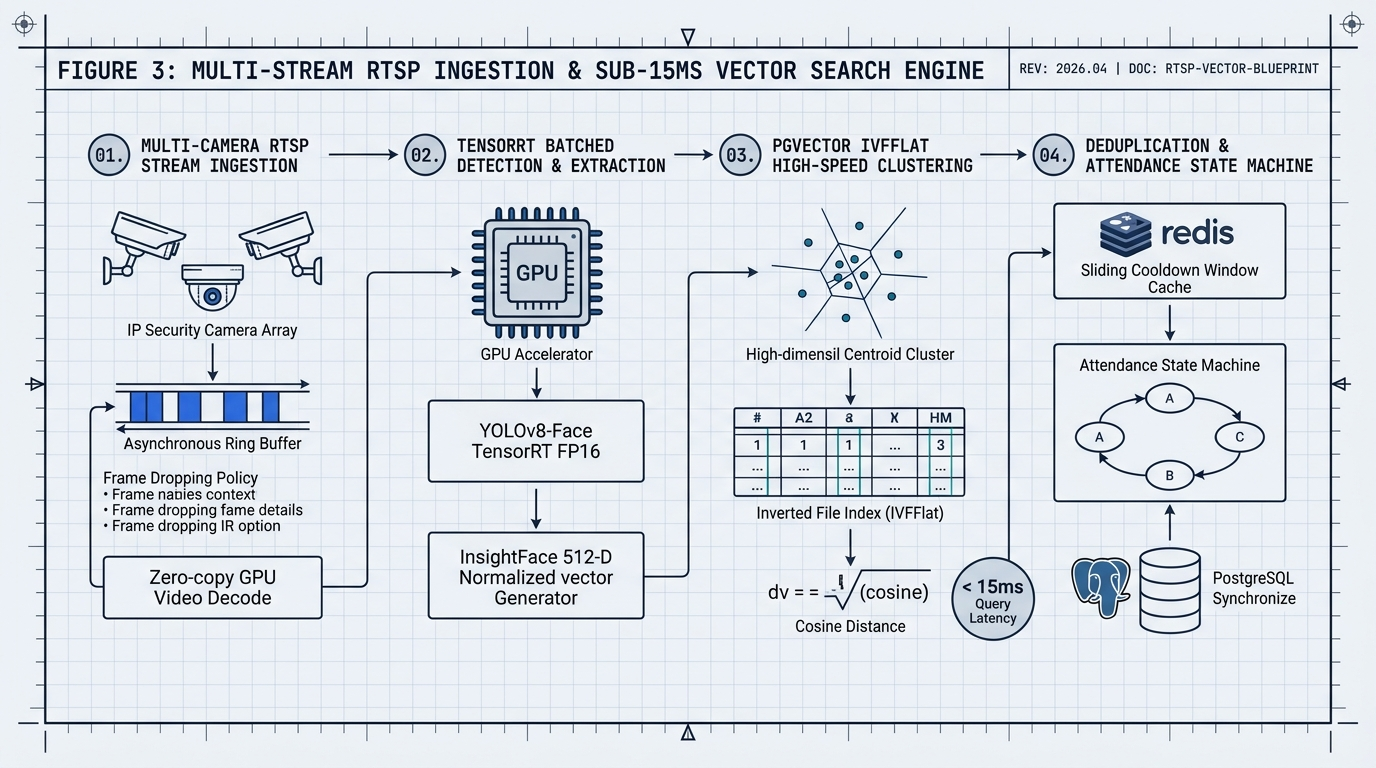
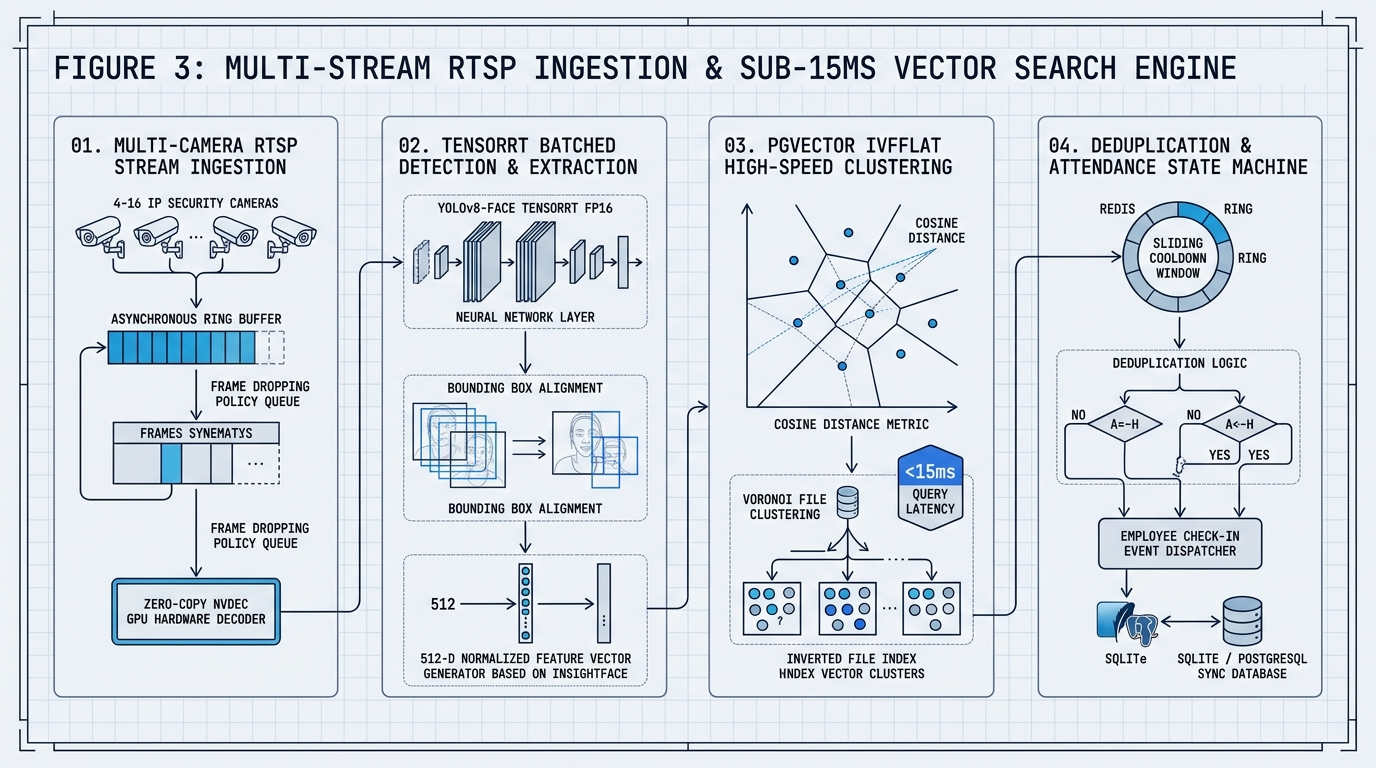
docs: streamline portfolio content and remove metadata stamps from blueprint diagrams

Changed region(s): [[0.0, 0.0, 1.0, 1.0], [0.4688, 0.375, 0.5, 0.4062]]

diff --git a/README.md b/README.md
@@ -11,11 +11,7 @@
 
 ## Executive Summary
 
-Welcome to my **Video Analytics & Computer Vision Architecture Portfolio**. 
-
-With an interdisciplinary background combining an **M.Sc. in Applied Mathematics and Computational Science (North South University)** and a **B.S.S. in Economics & Finance (BRAC University)**, I approach AI engineering through a dual lens: **rigorous computational execution** (low-latency inference, model quantization, scalable vector databases) paired with an **analytical, business-driven mindset** (minimizing server costs, eliminating workforce fraud, and optimizing hardware CapEx).
-
-This repository details the architectural designs, physical failure analyses, and empirical benchmarks of four production-grade computer vision systems:
+Production system architectures, failure analyses, and empirical benchmarks for four high-throughput computer vision systems—bridging low-latency edge inference with measurable financial ROI:
 
 <p align="center">
   <img src="diagrams/unified_system_topology.png" alt="Distributed Multi-Camera Computer Vision & Real-Time Vector Topology Blueprint" width="100%">
@@ -92,28 +88,19 @@ flowchart TD
 
 ## Key Technical Highlights
 
-### 1. Hardening Biometric Security (FinTech e-KYC)
-* **Information Density ($BPP$) Filter:** Attackers download compressed target photos from Facebook or WhatsApp and hold them to the camera. By requiring a minimum of $1.0\text{ Bits Per Pixel}$, the API instantly rejects compressed social media replays at the network perimeter.
-* **Apple Deep Fusion vs. RAW Bayer Analysis:** Discovered that smartphone in-camera noise reduction (like Apple's Deep Fusion) blurs away screen moiré lines in JPEGs, inadvertently helping screen spoofing attacks. Built raw `.DNG` sensor pipelines to detect authentic high-frequency screen interference.
-* **Quality-Adaptive Loss (AdaFace):** Adaptively relaxes confidence margins on faded or laminated government National ID scans, preventing false rejections of legitimate customers.
-
-### 2. Scalable High-Dimensional Vector Search
-* **PostgreSQL + `pgvector`:** Indexed 20,000+ employee embeddings into 100 Voronoi clusters using IVFFlat, reducing nearest-neighbor query times from hundreds of milliseconds down to **under 5 milliseconds**.
-* **Thread-per-Camera Decoupling:** Decoupled continuous 25 fps RTSP video socket capture from neural network inference using atomic circular queues (`maxlen=1`), eliminating the growing video lag common in standard loops.
-
-### 3. The Sub-Decimal Tracker Calibration Breakthrough
-* **100% Accuracy on an 11x Smaller Footprint:** Rather than running the resource-heavy YOLOX-X model (395 MB), systematically calibrated the lightweight YOLOX-Small model (35 MB) using sub-decimal threshold tuning (`0.4964` matching threshold, `21` frame buffer). Achieved **exact 0.00% error rate parity (392/392 unique people)** while increasing pipeline speed by **1.87x**.
+* **Presentation Attack Defense (BPP & RAW Analysis):** An Information Density filter ($BPP \ge 1.0$) rejects compressed social media replays at the network perimeter. Raw sensor `.DNG` decoding bypasses in-camera noise smoothing (e.g. Apple Deep Fusion) to catch microscopic screen moiré artifacts.
+* **Sub-5ms Vector Search (pgvector IVFFlat):** Clustered 20,000+ staff embeddings into 100 Voronoi cells, reducing vector query latency from hundreds of milliseconds to **under 5ms**.
+* **Zero Video Lag (Thread-per-Camera Architecture):** Atomic circular queues (`maxlen=1`) decouple 25 FPS RTSP socket capture from GPU inference, completely eliminating frame buffer buildup.
+* **100% Tracking Parity on 11x Smaller Footprint:** Calibrated YOLOX-Small (35MB) against heavy YOLOX-X (395MB) via sub-decimal threshold tuning ($t_{\text{match}} = 0.4964$, 21-frame buffer), achieving **0.00% error rate (392/392 headcount)** with a **1.87x speedup**.
 
 ---
 
-## Business Value & ROI Summary
+## Business Impact & ROI
 
-Combining an Applied Mathematics & Computational Science background with Economics & Finance, I prioritize engineering choices that directly translate to bottom-line business value:
-
-* 💰 **SaaS Displacement:** The self-hosted e-KYC pipeline replaces commercial identity vendors (\$0.50–\$1.50 per check), saving over **\$80,000 annually** for an active digital platform.
-* 🛡 **Eliminating Payroll Time-Theft:** Automated biometric attendance removes "buddy punching", which costs enterprises **2% to 5% of gross payroll** annually.
-* ⚡ **Hardware CapEx Optimization:** Calibrating lightweight models (35MB vs 395MB) allows the tracking pipeline to run on **\$450 mini-PCs** rather than **\$3,000 GPU workstations** (85% hardware cost savings per deployed site).
-* 🌐 **90%+ Bandwidth & Cloud Savings:** Processing video locally on edge devices avoids recurring cloud streaming and cloud GPU fees (saving **\$30,000+ per year** across a 20-camera facility).
+* 💰 **SaaS Displacement:** In-house e-KYC replaces \$0.50–\$1.50/check third-party vendors, saving **>\$80,000/year** at scale.
+* 🛡 **Time-Theft Elimination:** Automated biometric attendance removes buddy-punching, protecting **2%–5% of gross payroll**.
+* ⚡ **85% Hardware CapEx Reduction:** Tuning lightweight models enables deployment on **\$450 edge mini-PCs** instead of **\$3,000 GPU workstations**.
+* 🌐 **Zero Cloud Streaming Costs:** On-premise edge inference saves **\$30,000+/year** in video bandwidth and cloud GPU rental fees.
 
 ---
 
